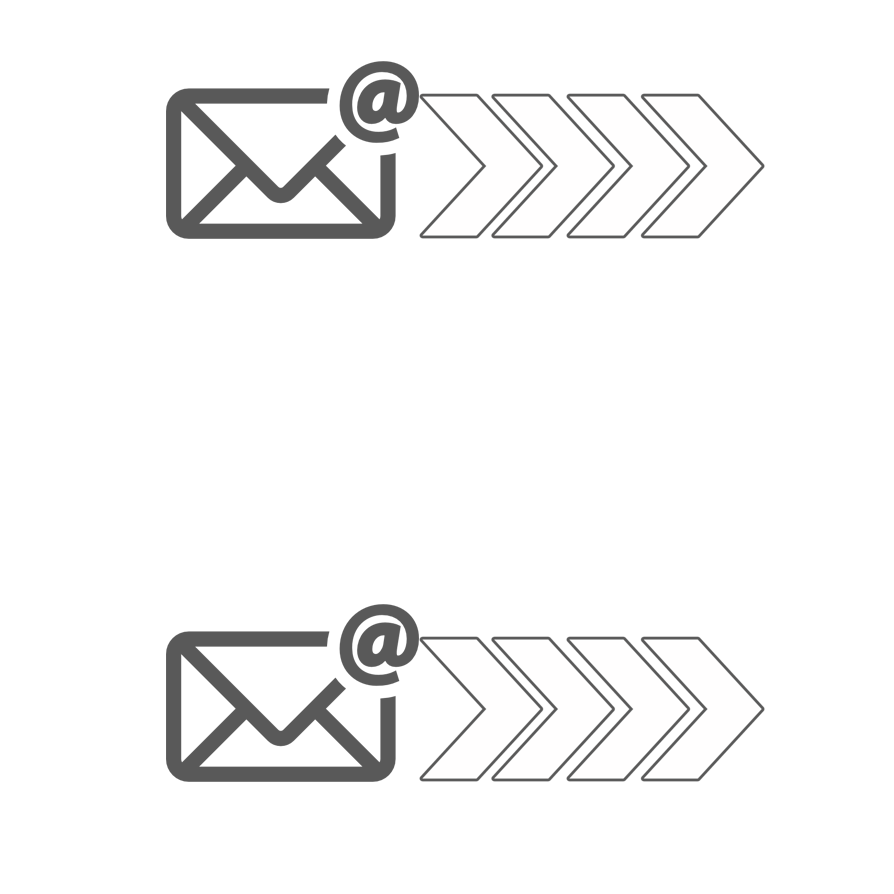
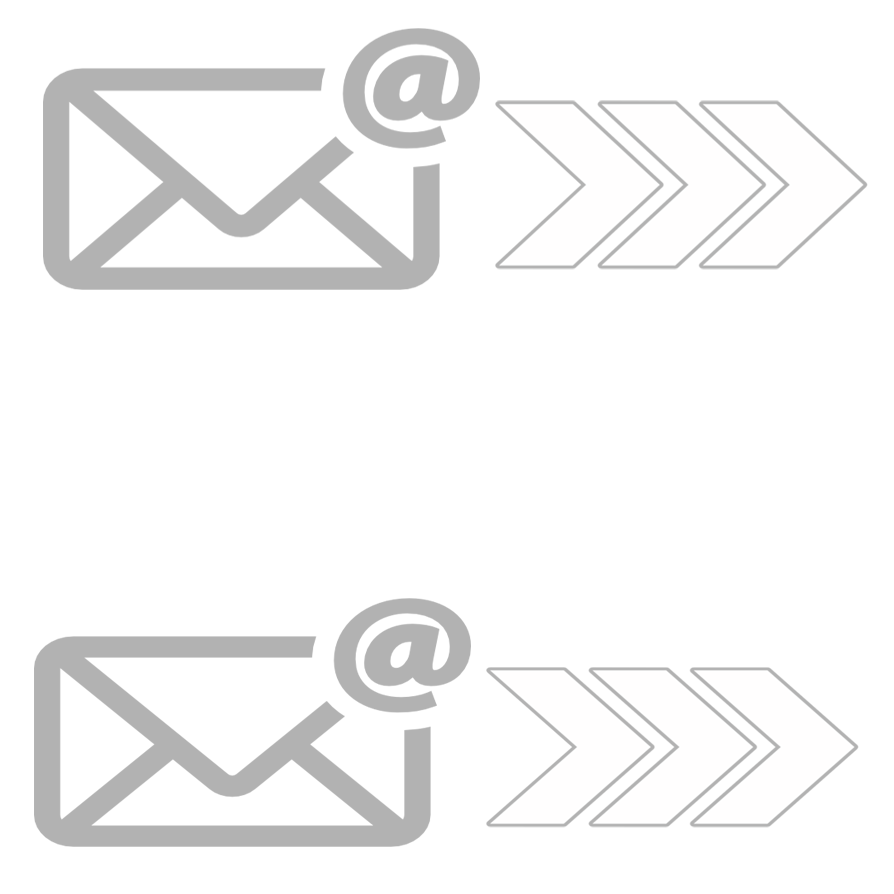
Changes to some background pictures, some game text. Added game Hint in the title window

diff --git a/index.html b/index.html
@@ -30,13 +30,18 @@
             <img src="img/Email.png" alt="Messages_Security" width="180" height="190" onclick="leftBotColMsg()" onmouseover="this.style.cursor='pointer';">
           </td>
           <td></br></br>
-            <img src="img/png_Cloud.png" alt="cloudServiceSecurity" width="200" height="150" onclick="rightBotColMsg()" onmouseover="this.style.cursor='pointer';">
+            <img src="img/noun_Cloud_3193592.png" alt="cloudServiceSecurity" width="200" height="150" onclick="rightBotColMsg()" onmouseover="this.style.cursor='pointer';">
           </td>
         </tr>
         <tr>
           <td><span id="gameOne" class="class-starWhite">&#9733; &#9733; &#9733; &#9733;</span></td>
           <td><span id="gameTwo" class="class-starWhite">&#9733; &#9733; &#9733; &#9733;</span></td>
           <td><span id="gameThree" class="class-starWhite">&#9733; &#9733; &#9733; &#9733;</span></td>
+        </tr>
+        <tr>
+          <td colspan="3" id="gameHint" class="class-gameHint">
+            <!-- <span id="gameHint" class="class-gameHint"></span> -->
+          </td>
         </tr>
       </table>
       
@@ -71,24 +76,32 @@
     <div id="cardPileGame3"></div> -->
 
     <div id="successMessage">
-      <h2>Congratulations, all correct!</h2>
-      <button onclick="init()">Play more games!</button>
+      <h2>Congratulations!</h2>
+      <button onclick="init()">Play another game!</button>
     </div>
 
     <div id="failedMessage">
-      <h2>Oh, no! Incorrect answer!</h2>
+      <h2>Sorry, incorrect answer!</h2>
       <button onclick="clearWrongDrop()">Try again!</button>
     </div>
 
     <div id="infoMessage">
       <h2>Even though it is possible, for this case it is not required.</h2>
-      <button onclick="clearWrongDrop()">Let's try again!</button>
+      <button onclick="clearWrongDrop()">Try a better option!</button>
     </div>
   </div>
 
 <!-- <div id="pageFoolter" class="wideBox">(c) 2020 MUHC
 </div> -->
+<script>
+  var gameHintTitle = "GOAL: In every game, documents of 4 different types (classified as Sensitive, Confidential, Restricted and public)" +
+                        " must be stored or send to third parties, complying with MUHC\'s information security standards." +
+                        " Drag-and-drop every document to the most appropriate placeholder.";
+    //gameHint:  $("#gameHint").html('<h4>'+gameHintTitle+'</h4>');
 
+    var gameHintBox = document.getElementById("gameHint");    
+    gameHintBox.innerHTML = '<h6>'+gameHintTitle+'</h6>'; 
+</script>
 </body>
 </html>
 

diff --git a/dragdropcode.js b/dragdropcode.js
@@ -9,14 +9,16 @@
     var publicDocImg = "img/documentsPilePub.png";
     var confDocImg = "img/documentsPileConf.png";
     var restrDocImg = "img/documentsPileRest.png";
-    var sensDocImg = "img/documentsPileSens.png";
+    var sensDocImg = "img/documentsPileSens.png";     
     $( init );
     var arrObjects = [
         {
             'game': {
                 'maxItems': 4,
                 'titleTxt': 'Digital medium: transporting documents off-site',
-                'gameTxt': 'Drag and drop the document of each kind to the most appropriate placeholders (according to MUHCs information classification standards) when transporting documents off-site',
+                'gameTxt': 'Drag and drop the document of each kind </br>to the most appropriate placeholder </br>'+
+                            '(according to MUHCs information classification standards)' + 
+                            '</br>when transporting documents off-site',
                 'gameTxtClass' : 'class-digitalMediumMsg',
                 'imgSrc': 
                     [
@@ -74,8 +76,10 @@
         {
             'game': {
                 'maxItems': 4,
-                'titleTxt': 'Emails: transporting documents off-site',
-                'gameTxt': 'Drag and drop the document of each kind to the most appropriate placeholders (according to MUHCs information classification standards)',
+                'titleTxt': 'Sending documents by email',
+                'gameTxt': 'Drag and drop the document of each kind </br>' +
+                            'to the most appropriate email service </br>' +
+                            '(according to MUHCs information classification standards)',
                 'gameTxtClass' : 'class-emailsMsg',
                 'imgSrc': 
                     [
@@ -133,8 +137,10 @@
         {
             'game': {
                 'maxItems': 4,
-                'titleTxt': 'Cloud Storage: transporting documents off-site',
-                'gameTxt': 'Drag and drop the document of each kind to the most appropriate placeholders (according to MUHCs information classification standards)',
+                'titleTxt': 'Cloud Storage for sharing documents',
+                'gameTxt': 'Drag and drop the document of each kind </br>' +
+                            'to the most appropriate cloud service </br>' +
+                            '(according to MUHCs information classification standards)',
                 'gameTxtClass' : 'class-cloudsMsg',
                 'imgSrc': 
                     [

diff --git a/style.css b/style.css
@@ -92,7 +92,7 @@ body {
     width: 800px;
     min-width: 780px;
     /* height: 160px; */
-    padding: 40px;
+    padding: 10px;
     /* border: 1px solid #333; */
     /* border: 2px solid #333; */
     -moz-border-radius: 10px;
@@ -137,14 +137,14 @@ body {
   }
 
   .textMessageEmail {
-    margin: 0px;
-    padding: 300px 40px 300px 40px;
+    /* margin-top: 20px; */
+    padding: 300px 20px 300px 20px;
     /* border: 2px solid #333; */
     -moz-border-radius: 10px;
     -webkit-border-radius: 10px;
     border-radius: 10px;
     /* margin: 0 0 0 10px; */
-    background-image: url('img/png_2xEmail3ArrowV2.png');
+    background-image: url('img/png_2xEmailArrow.png');
     background-size:100% 100%;
     background-repeat: no-repeat, no-repeat;
     background-position: right, left;
@@ -158,7 +158,7 @@ body {
     -webkit-border-radius: 10px;
     border-radius: 10px;
     /* margin: 0 0 0 10px; */
-    background-image: url('img/png_FileArrows.png');
+    background-image: url('img/png_FilesArrow.png');
     background-size: 100% 100%;
     background-repeat: no-repeat, no-repeat;
     background-position: right, left;
@@ -172,7 +172,8 @@ body {
     -webkit-border-radius: 10px;
     border-radius: 10px;
     /* margin: 0 0 0 10px; */
-    background-image: url('img/png_CloudArrows.png');
+    /*  png_Cloud2Arrow.png; background-image: url('img/png_CloudArrows.png'); */
+    background-image: url('img/png_Cloud2Arrow.png');
     background-size: 100% 100%;
     background-repeat: no-repeat, no-repeat;
     background-position: right, left;
@@ -356,7 +357,7 @@ body {
     margin-left: auto;
     margin-right: auto;
     width: 800px;
-    height: 600px;
+    /* height: 600px; */
     z-index: 100;
     /* background: #dfd; */
     /* background: rgb(170, 170, 170); */
@@ -393,7 +394,7 @@ body {
   .initContMainDiv {
     float: none;
     width: 95%;
-    height: 450px;
+    /* height: 450px; */
     padding: 15px;
     padding-top: 5px;
     padding-bottom: 5px;
@@ -596,4 +597,17 @@ body {
     margin-top: -10px;
     margin-left: auto;
     margin-right: auto;
+  }
+
+  .class-gameHint {
+    padding: 0%;    
+    margin-left: auto;
+    margin-right: auto;
+    font-size: 1.1em;
+  }
+
+  .class-gameHint:hover {
+    /* background-color: yellow; */
+    color: rgb(89, 10, 163);
+    /* font-size: 1.3em; */
   }
